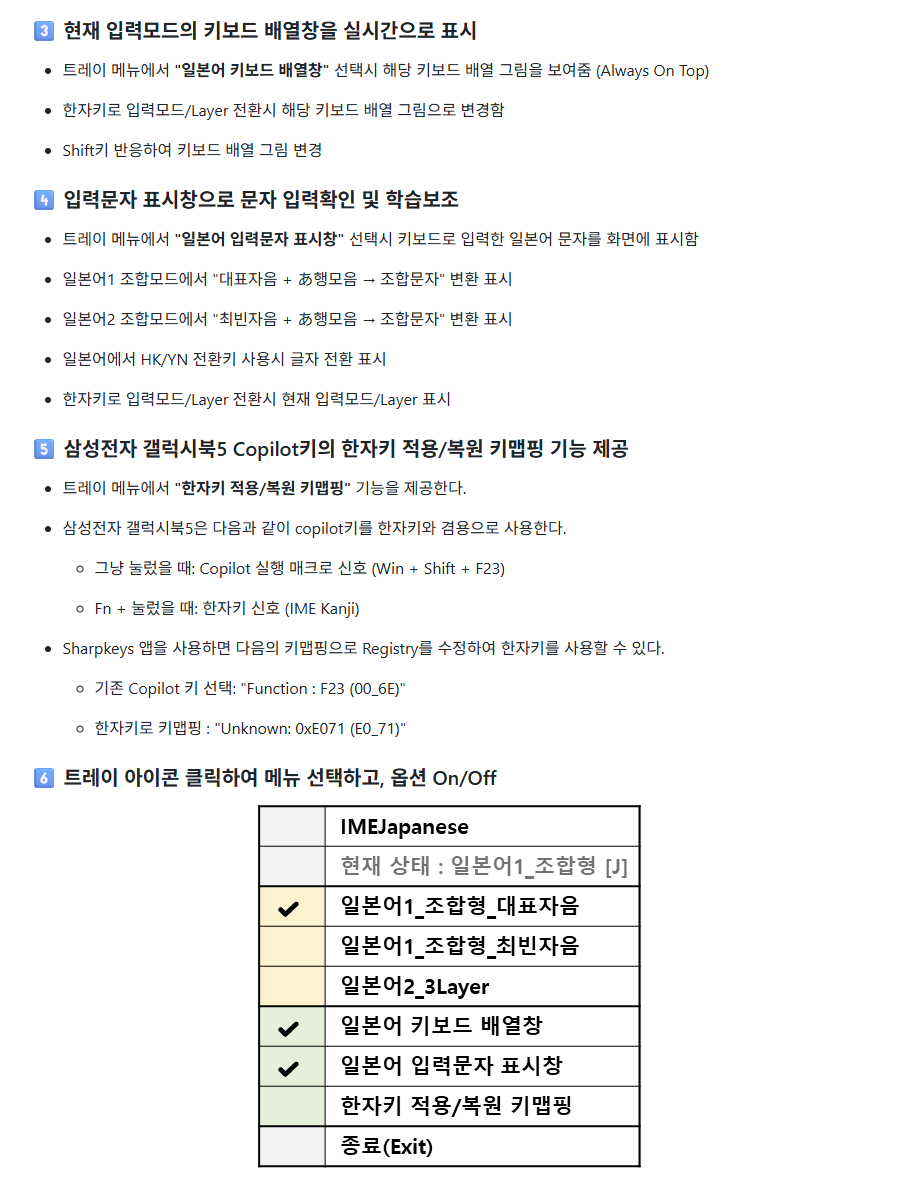
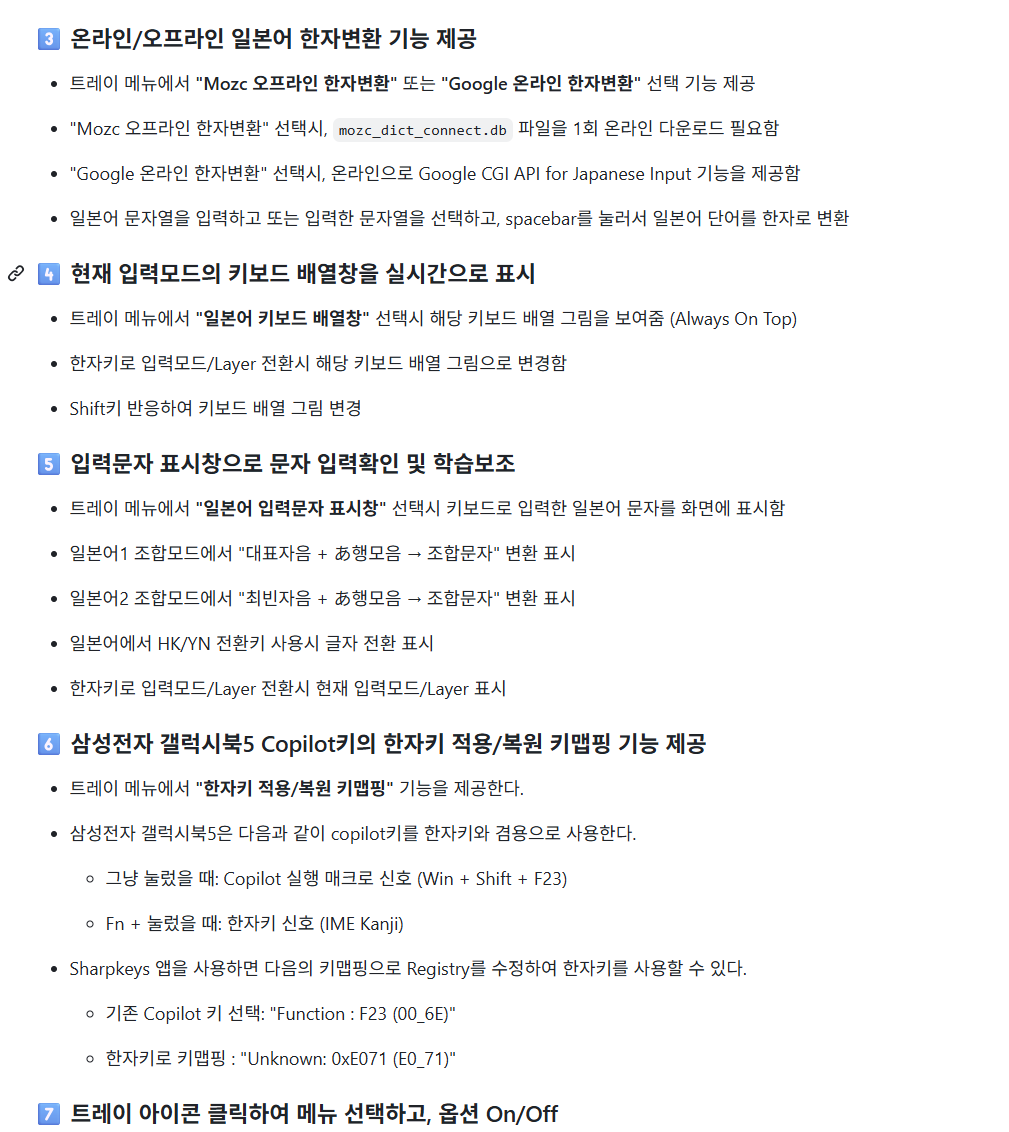
"트레이 메뉴 일본어3 명칭 수정"

Changed region(s): [[0.0, 0.0, 0.8428, 0.6184], [0.0312, 0.6493, 0.7492, 1.0]]

diff --git a/Program.cs b/Program.cs
@@ -704,7 +704,7 @@ namespace IMEJapanese
 
             _menuItemCapsJapanese1 = AddMenuToggle("일본어1_조합형_대표자음", AppConfig.ShowCapsJapanese1, (s, e) => UpdateCapsMode(CapsMode.Japanese1));
             _menuItemCapsJapanese2 = AddMenuToggle("일본어2_조합형_최빈자음", AppConfig.ShowCapsJapanese2, (s, e) => UpdateCapsMode(CapsMode.Japanese2));
-            _menuItemCapsJapanese3 = AddMenuToggle("일본어3_3Layer", AppConfig.ShowCapsJapanese3, (s, e) => UpdateCapsMode(CapsMode.Japanese3));
+            _menuItemCapsJapanese3 = AddMenuToggle("일본어3_완성형_3Layer", AppConfig.ShowCapsJapanese3, (s, e) => UpdateCapsMode(CapsMode.Japanese3));
             AddMenuSeparatorIf(AppConfig.ShowCapsJapanese1 || AppConfig.ShowCapsJapanese2 || AppConfig.ShowCapsJapanese3);
 
             _menuItemUseMozc = new ToolStripMenuItem("Mozc 오프라인 한자변환", null, async (s, e) =>
